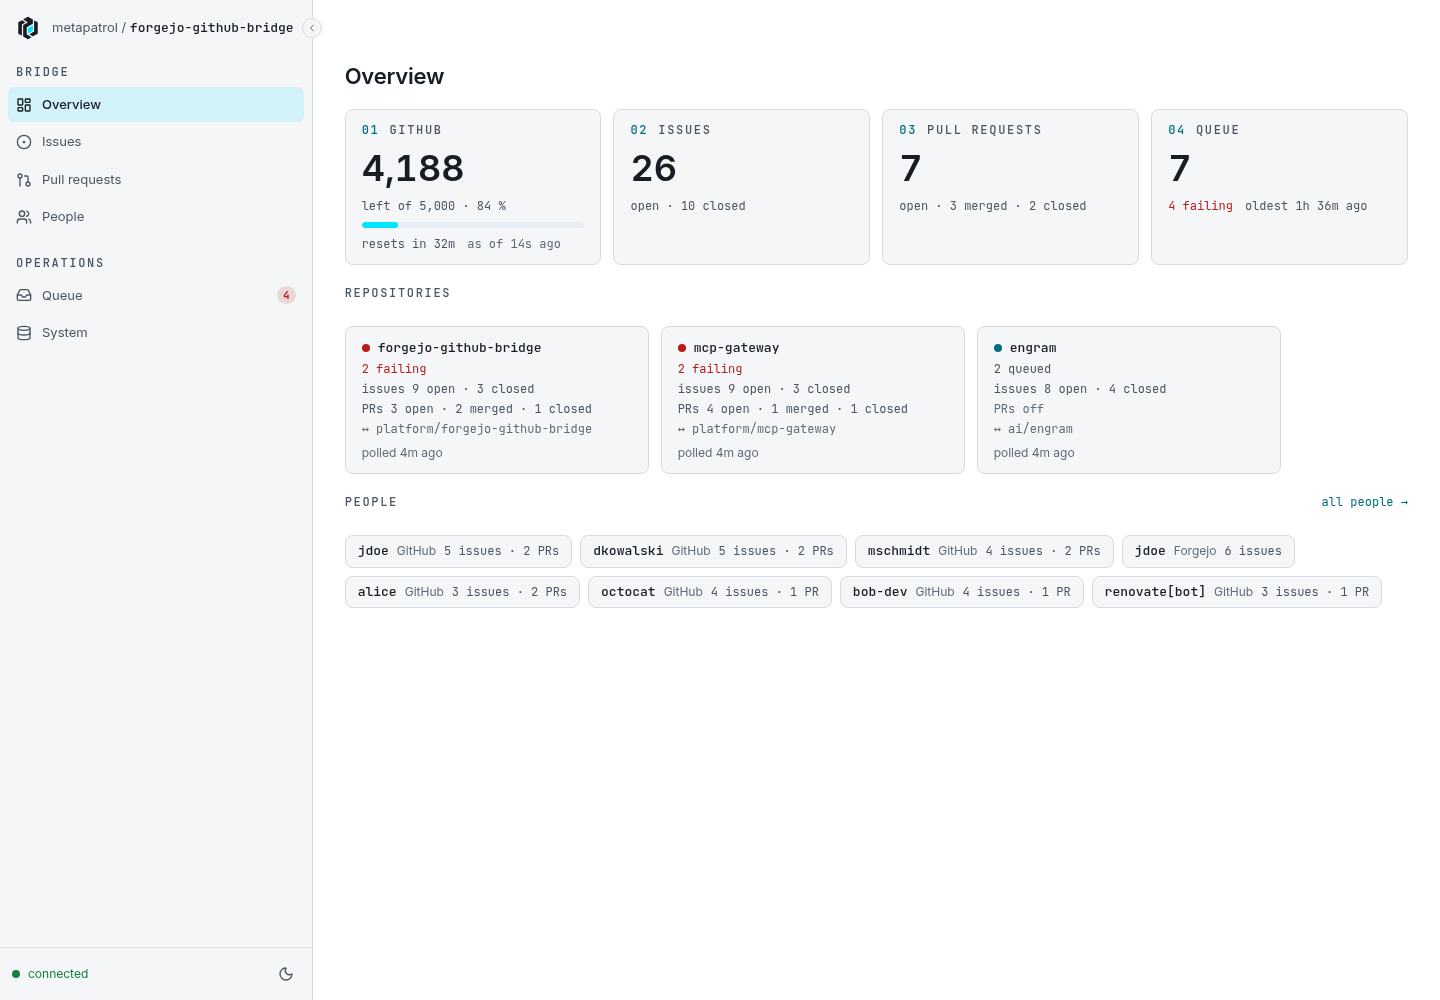
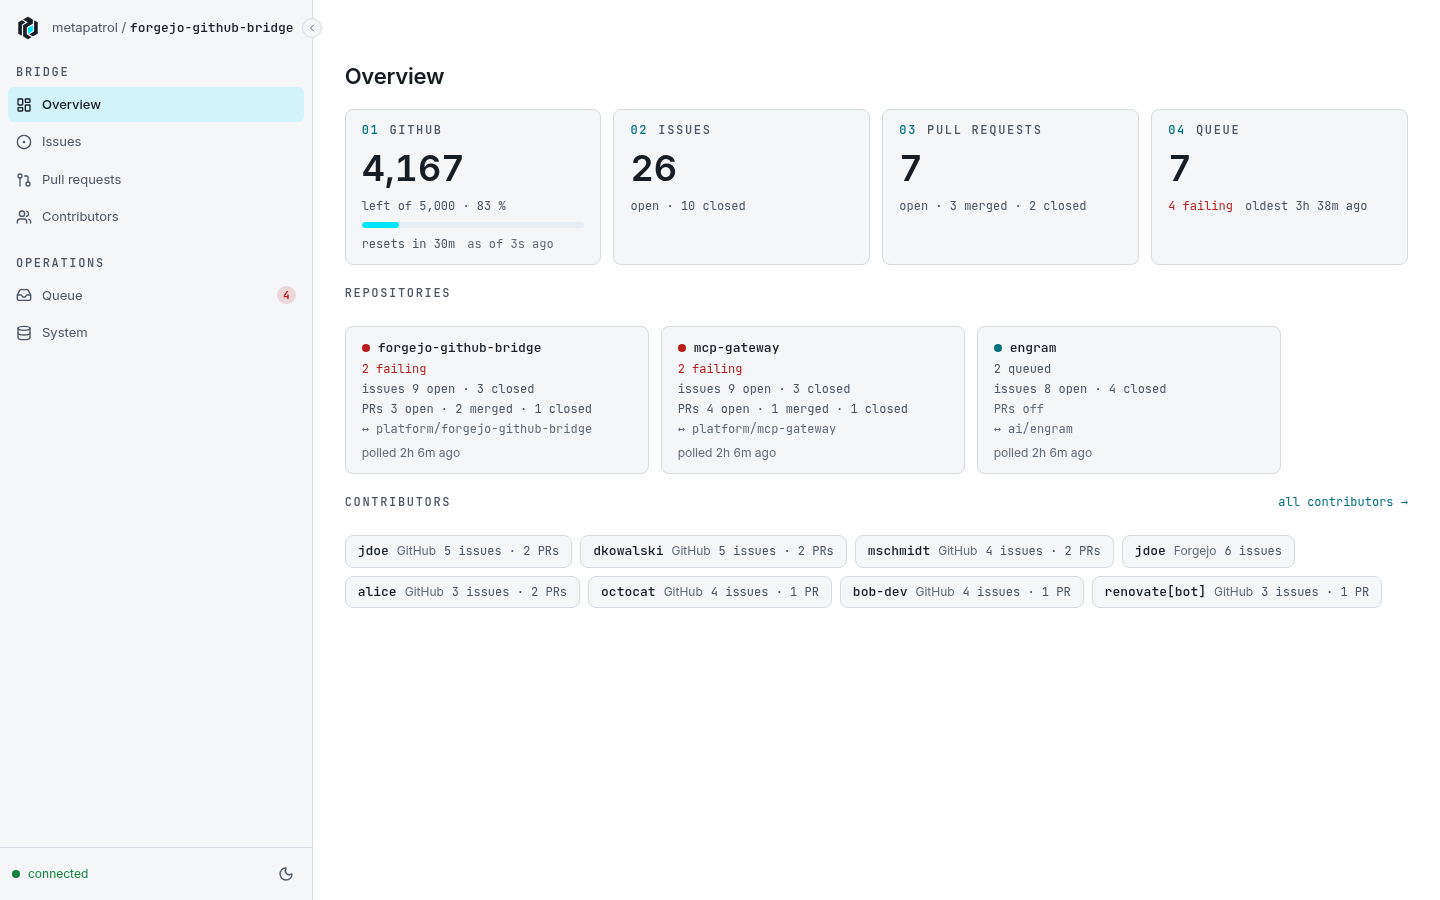
feat(ui): people are contributors
/people links lead to /contributors.

diff --git a/ui/src/app/features/contributors/contributors.spec.ts b/ui/src/app/features/contributors/contributors.spec.ts
@@ -5,8 +5,8 @@ import { TestBed } from '@angular/core/testing';
 import { provideRouter } from '@angular/router';
 import { provideApiConfiguration } from '../../api/api-configuration';
 import { Author } from '../../api/models/author';
-import { People } from './people';
-import { Person } from './person';
+import { Contributors } from './contributors';
+import { ContributorDetail } from './contributor';
 
 const authors: Author[] = [
   {
@@ -32,10 +32,10 @@ function setup() {
   return TestBed.inject(HttpTestingController);
 }
 
-describe('People', () => {
+describe('Contributors', () => {
   it('lists everyone, linked to their pages', async () => {
     const http = setup();
-    const fixture = TestBed.createComponent(People);
+    const fixture = TestBed.createComponent(Contributors);
     fixture.detectChanges();
     TestBed.inject(ApplicationRef).tick();
     http.expectOne('/api/v1/authors').flush(authors);
@@ -43,15 +43,15 @@ describe('People', () => {
     fixture.detectChanges();
     const el = fixture.nativeElement as HTMLElement;
     const hrefs = Array.from(el.querySelectorAll('tbody a')).map((a) => a.getAttribute('href'));
-    expect(hrefs).toEqual(['/people/github/alice', '/people/forgejo/jdoe']);
+    expect(hrefs).toEqual(['/contributors/github/alice', '/contributors/forgejo/jdoe']);
     expect(el.textContent).toContain('Forgejo');
   });
 });
 
-describe('Person', () => {
+describe('ContributorDetail', () => {
   it('shows the counts and their issues and pull requests, filtered by them', async () => {
     const http = setup();
-    const fixture = TestBed.createComponent(Person);
+    const fixture = TestBed.createComponent(ContributorDetail);
     fixture.componentRef.setInput('side', 'github');
     fixture.componentRef.setInput('login', 'alice');
     fixture.detectChanges();
@@ -77,7 +77,7 @@ describe('Person', () => {
 
   it('has no pull requests from Forgejo', async () => {
     const http = setup();
-    const fixture = TestBed.createComponent(Person);
+    const fixture = TestBed.createComponent(ContributorDetail);
     fixture.componentRef.setInput('side', 'forgejo');
     fixture.componentRef.setInput('login', 'jdoe');
     fixture.detectChanges();

diff --git a/ui/src/app/features/contributors/contributor.ts b/ui/src/app/features/contributors/contributor.ts
@@ -19,14 +19,14 @@ import { PairsTable } from '../../shared/pairs-table';
 
 const RECENT = 10;
 
-/** One person: what the bridge holds from them. */
+/** One contributor: what the bridge holds from them. */
 @Component({
-  selector: 'app-person',
+  selector: 'app-contributor',
   imports: [RouterLink, MpLoadState, MpPageHeader, MpPanel, MpPanelActions, MpTime, PairsTable],
   changeDetection: ChangeDetectionStrategy.OnPush,
-  templateUrl: './person.html',
+  templateUrl: './contributor.html',
 })
-export class Person {
+export class ContributorDetail {
   /** From the route. */
   readonly side = input.required<Side>();
   readonly login = input.required<string>();
@@ -34,10 +34,10 @@ export class Person {
   protected readonly timestamp = timestamp;
 
   protected readonly authors = apiResource(listAuthors, () => ({}));
-  protected readonly person = computed(() =>
+  protected readonly contributor = computed(() =>
     this.authors.body()?.find((a) => a.side === this.side() && a.login === this.login()),
   );
-  protected readonly unknown = computed(() => this.authors.hasValue() && !this.person());
+  protected readonly unknown = computed(() => this.authors.hasValue() && !this.contributor());
 
   protected readonly issues = apiResource(listPairs, () => ({
     kind: 'issue' as const,
@@ -61,7 +61,7 @@ export class Person {
 
   constructor() {
     liveReload(
-      () => ({ view: 'person', login: this.login(), side: this.side() }),
+      () => ({ view: 'contributor', login: this.login(), side: this.side() }),
       this.authors,
       this.issues,
       this.pulls,

diff --git a/ui/src/app/core/events.spec.ts b/ui/src/app/core/events.spec.ts
@@ -34,8 +34,8 @@ describe('concerns', () => {
     { view: 'pairs', kind: 'issue' },
     { view: 'pair', id: 7 },
     { view: 'queue' },
-    { view: 'people' },
-    { view: 'person', login: 'alice', side: 'github' },
+    { view: 'contributors' },
+    { view: 'contributor', login: 'alice', side: 'github' },
     { view: 'system' },
   ];
 
@@ -103,14 +103,14 @@ describe('concerns', () => {
     }
   });
 
-  it('reloads the people for pairs, and a person for pairs and the queue', () => {
-    expect(concerns(pair(), { view: 'people' })).toBe(true);
-    expect(concerns(queue(), { view: 'people' })).toBe(false);
-    expect(concerns(cursor(), { view: 'people' })).toBe(false);
-    const person: Scope = { view: 'person', login: 'alice', side: 'github' };
-    expect(concerns(pair(), person)).toBe(true);
-    expect(concerns(queue(), person)).toBe(true);
-    expect(concerns(leader, person)).toBe(false);
+  it('reloads the contributors for pairs, and a contributor for pairs and the queue', () => {
+    expect(concerns(pair(), { view: 'contributors' })).toBe(true);
+    expect(concerns(queue(), { view: 'contributors' })).toBe(false);
+    expect(concerns(cursor(), { view: 'contributors' })).toBe(false);
+    const one: Scope = { view: 'contributor', login: 'alice', side: 'github' };
+    expect(concerns(pair(), one)).toBe(true);
+    expect(concerns(queue(), one)).toBe(true);
+    expect(concerns(leader, one)).toBe(false);
   });
 
   it('reloads the system page when a maintenance round starts or ends, and only then', () => {

diff --git a/ui/src/app/features/contributors/contributors.ts b/ui/src/app/features/contributors/contributors.ts
@@ -8,11 +8,11 @@ import { SideLabel } from '../../shared/badges';
 
 /** Everyone who opened a pair, the most active first. */
 @Component({
-  selector: 'app-people',
+  selector: 'app-contributors',
   imports: [MpLoadState, MpPageHeader, MpTime, Author, SideLabel],
   changeDetection: ChangeDetectionStrategy.OnPush,
   template: `
-    <mp-page-header title="People" [note]="authors.body()?.length?.toString()" />
+    <mp-page-header title="Contributors" [note]="authors.body()?.length?.toString()" />
     <p class="mb-4 max-w-3xl text-sm text-fg-muted">
       Who opened the issues and pull requests the bridge holds: GitHub logins for what came from
       GitHub, Forgejo logins for issues published from Forgejo. The bridge does not record who wrote
@@ -22,7 +22,7 @@ import { SideLabel } from '../../shared/badges';
       <mp-load-state
         [error]="authors.error()"
         [loading]="authors.isLoading() && !authors.hasValue()"
-        what="people"
+        what="contributors"
       />
       @if (authors.hasValue()) {
         <div class="max-w-full overflow-x-auto">
@@ -59,10 +59,10 @@ import { SideLabel } from '../../shared/badges';
     </section>
   `,
 })
-export class People {
+export class Contributors {
   protected readonly authors = apiResource(listAuthors, () => ({}));
 
   constructor() {
-    liveReload(() => ({ view: 'people' }), this.authors);
+    liveReload(() => ({ view: 'contributors' }), this.authors);
   }
 }

diff --git a/ui/src/app/features/pairs/pairs.ts b/ui/src/app/features/pairs/pairs.ts
@@ -18,7 +18,7 @@ import { liveReload } from '../../core/events';
 import { Pager } from '../../shared/pager';
 import { FilterOption, PairFilters } from '../../shared/pair-filters';
 import { PairsTable } from '../../shared/pairs-table';
-import { personLink } from '../../shared/author';
+import { contributorLink } from '../../shared/author';
 
 const LIMIT = 50;
 
@@ -69,7 +69,7 @@ function oneOf<T extends string>(value: string | undefined, allowed: readonly T[
           <span
             class="inline-flex items-center gap-1 rounded-full border border-line bg-surface-2 py-0.5 pr-1 pl-2.5"
           >
-            <a [routerLink]="personLink()" class="mp-link font-mono">{{ author() }}</a>
+            <a [routerLink]="contributorLink()" class="mp-link font-mono">{{ author() }}</a>
             <span class="text-fg-subtle">· {{ originName() }}</span>
             <button
               type="button"
@@ -167,8 +167,8 @@ export class Pairs {
   protected readonly originName = computed(() =>
     this.authorSide() === 'github' ? 'GitHub' : 'Forgejo',
   );
-  protected readonly personLink = computed(() =>
-    personLink(this.authorSide(), this.author() ?? ''),
+  protected readonly contributorLink = computed(() =>
+    contributorLink(this.authorSide(), this.author() ?? ''),
   );
 
   protected clearAuthor(): void {

diff --git a/ui/src/app/features/overview/overview.spec.ts b/ui/src/app/features/overview/overview.spec.ts
@@ -48,8 +48,8 @@ function repository(name: string, failing = 0): Repository {
   };
 }
 
-const people: Author[] = Array.from({ length: 10 }, (_, i) => ({
-  login: `person-${i}`,
+const contributors: Author[] = Array.from({ length: 10 }, (_, i) => ({
+  login: `contributor-${i}`,
   side: i === 9 ? 'forgejo' : 'github',
   issues: 10 - i,
   pulls: i % 3,
@@ -160,13 +160,13 @@ describe('Overview', () => {
     expect(el.querySelectorAll('app-repo-tile').length).toBe(1);
   });
 
-  it('names the eight most active people, linking to their pages', async () => {
-    const el = await render(working, [], undefined, people);
+  it('names the eight most active contributors, linking to their pages', async () => {
+    const el = await render(working, [], undefined, contributors);
     const links = Array.from(
-      el.querySelectorAll('section[aria-labelledby="people-heading"] ul a'),
+      el.querySelectorAll('section[aria-labelledby="contributors-heading"] ul a'),
     ).map((a) => a.getAttribute('href'));
     expect(links.length).toBe(8);
-    expect(links[0]).toBe('/people/github/person-0');
-    expect(el.textContent).toContain('all people →');
+    expect(links[0]).toBe('/contributors/github/contributor-0');
+    expect(el.textContent).toContain('all contributors →');
   });
 });

diff --git a/ui/src/app/app.routes.spec.ts b/ui/src/app/app.routes.spec.ts
@@ -1,5 +1,5 @@
 import { TestBed } from '@angular/core/testing';
-import { provideRouter, Router } from '@angular/router';
+import { provideRouter, Router, withComponentInputBinding } from '@angular/router';
 import { RouterTestingHarness } from '@angular/router/testing';
 import { provideHttpClient } from '@angular/common/http';
 import { provideHttpClientTesting } from '@angular/common/http/testing';
@@ -20,5 +20,22 @@ describe('routes', () => {
     await harness.navigateByUrl('/repositories');
     expect(TestBed.inject(Router).url).toBe('/');
     expect(harness.routeNativeElement?.textContent).toContain('Overview');
+  });
+
+  it('sends the former people pages to the contributors', async () => {
+    TestBed.configureTestingModule({
+      providers: [
+        provideRouter(routes, withComponentInputBinding()),
+        provideHttpClient(),
+        provideHttpClientTesting(),
+        provideApiConfiguration('/api/v1'),
+      ],
+    });
+    const harness = await RouterTestingHarness.create();
+    const router = TestBed.inject(Router);
+    await harness.navigateByUrl('/people');
+    expect(router.url).toBe('/contributors');
+    await harness.navigateByUrl('/people/github/alice');
+    expect(router.url).toBe('/contributors/github/alice');
   });
 });

diff --git a/ui/src/app/features/overview/overview.ts b/ui/src/app/features/overview/overview.ts
@@ -11,7 +11,7 @@ import {
 } from '@metapatrol/ng';
 import { listRepositories } from '../../api/fn/repositories/list-repositories';
 import { listAuthors } from '../../api/fn/pairs/list-authors';
-import { personLink } from '../../shared/author';
+import { contributorLink } from '../../shared/author';
 import { sideName } from '../../core/history';
 import { apiResource } from '../../core/api';
 import { repoPath } from '../../core/format';
@@ -24,7 +24,7 @@ import { until } from '../../core/format';
 import { Meter } from '../../shared/meter';
 import { StatusService } from '../../core/status';
 
-/** How many people the overview names. */
+/** How many contributors the overview names. */
 const TOP_AUTHORS = 8;
 
 @Component({
@@ -39,7 +39,7 @@ export class Overview {
   protected readonly authors = apiResource(listAuthors, () => ({}));
   /** The most active, as the API orders them. */
   protected readonly topAuthors = computed(() => (this.authors.body() ?? []).slice(0, TOP_AUTHORS));
-  protected readonly personLink = personLink;
+  protected readonly contributorLink = contributorLink;
   protected readonly sideName = sideName;
   protected readonly count = count;
   protected readonly repoPath = repoPath;

diff --git a/ui/src/app/features/overview/overview.html b/ui/src/app/features/overview/overview.html
@@ -123,21 +123,21 @@
       </ul>
     </section>
 
-    <section class="flex flex-col gap-3" aria-labelledby="people-heading">
+    <section class="flex flex-col gap-3" aria-labelledby="contributors-heading">
       <header class="flex items-baseline justify-between gap-3">
-        <h2 id="people-heading" class="mp-label mb-0">People</h2>
-        <a routerLink="/people" class="mp-link text-xs">all people →</a>
+        <h2 id="contributors-heading" class="mp-label mb-0">Contributors</h2>
+        <a routerLink="/contributors" class="mp-link text-xs">all contributors →</a>
       </header>
       <mp-load-state
         [error]="authors.error()"
         [loading]="authors.isLoading() && !authors.hasValue()"
-        what="people"
+        what="contributors"
       />
       <ul class="flex flex-wrap gap-2">
         @for (a of topAuthors(); track a.side + a.login) {
           <li>
             <a
-              [routerLink]="personLink(a.side, a.login)"
+              [routerLink]="contributorLink(a.side, a.login)"
               [class]="tileLink + ' flex items-baseline gap-2 px-3 py-1.5 text-sm'"
               [title]="a.login + ' on ' + sideName(a.side)"
             >

diff --git a/ui/src/app/app.routes.ts b/ui/src/app/app.routes.ts
@@ -53,15 +53,19 @@ export const routes: Routes = [
     loadComponent: () => import('./features/pairs/pair-redirect').then((m) => m.PairRedirect),
   },
   {
-    path: 'people',
-    title: title('People'),
-    loadComponent: () => import('./features/people/people').then((m) => m.People),
+    path: 'contributors',
+    title: title('Contributors'),
+    loadComponent: () => import('./features/contributors/contributors').then((m) => m.Contributors),
   },
   {
-    path: 'people/:side/:login',
-    title: title('Person'),
-    loadComponent: () => import('./features/people/person').then((m) => m.Person),
+    path: 'contributors/:side/:login',
+    title: title('Contributor'),
+    loadComponent: () =>
+      import('./features/contributors/contributor').then((m) => m.ContributorDetail),
   },
+  // Contributors were called people at first.
+  { path: 'people', pathMatch: 'full', redirectTo: 'contributors' },
+  { path: 'people/:side/:login', redirectTo: 'contributors/:side/:login' },
   {
     path: 'queue',
     title: title('Queue'),

diff --git a/ui/src/app/features/contributors/contributor.html b/ui/src/app/features/contributors/contributor.html
@@ -1,20 +1,20 @@
-<mp-page-header section="people" link="/people" [title]="login()" mono />
+<mp-page-header section="contributors" link="/contributors" [title]="login()" mono />
 
 <mp-load-state
   [error]="authors.error()"
   [loading]="authors.isLoading() && !authors.hasValue()"
-  what="people"
+  what="contributors"
 />
 @if (unknown()) {
   <p class="mb-4 text-sm text-fg-muted">
     The bridge holds nothing opened by {{ login() }} on {{ sideName(side()) }}.
-    <a routerLink="/people" class="mp-link">Everyone</a>.
+    <a routerLink="/contributors" class="mp-link">All contributors</a>.
   </p>
 }
 
 <div class="flex flex-col gap-5">
-  @if (person(); as a) {
-    <mp-panel index="01" title="person">
+  @if (contributor(); as a) {
+    <mp-panel index="01" title="contributor">
       <dl class="grid grid-cols-[auto_minmax(0,1fr)] gap-x-6 gap-y-2 px-4 py-3 text-sm">
         <dt class="text-fg-muted">login</dt>
         <dd class="font-mono">{{ a.login }}</dd>

diff --git a/ui/src/app/core/events.ts b/ui/src/app/core/events.ts
@@ -32,9 +32,9 @@ export type Scope =
   | { view: 'pairs'; kind: PairKind; repository?: string }
   | { view: 'pair'; id: number }
   | { view: 'queue' }
-  | { view: 'people' }
+  | { view: 'contributors' }
   | { view: 'system' }
-  | { view: 'person'; login: string; side: string };
+  | { view: 'contributor'; login: string; side: string };
 
 /**
  * Whether an event changes what a view shows. ready and resync change
@@ -68,11 +68,11 @@ export function concerns(e: BridgeEvent, scope: Scope): boolean {
       return (e.kind === 'pair' && e.id === scope.id) || e.kind === 'queue';
     case 'queue':
       return e.kind === 'queue';
-    case 'people':
+    case 'contributors':
       return e.kind === 'pair';
     case 'system':
       return e.kind === 'maintenance';
-    case 'person':
+    case 'contributor':
       // A pair event does not name its author: any may be theirs.
       return e.kind === 'pair' || e.kind === 'queue';
   }
